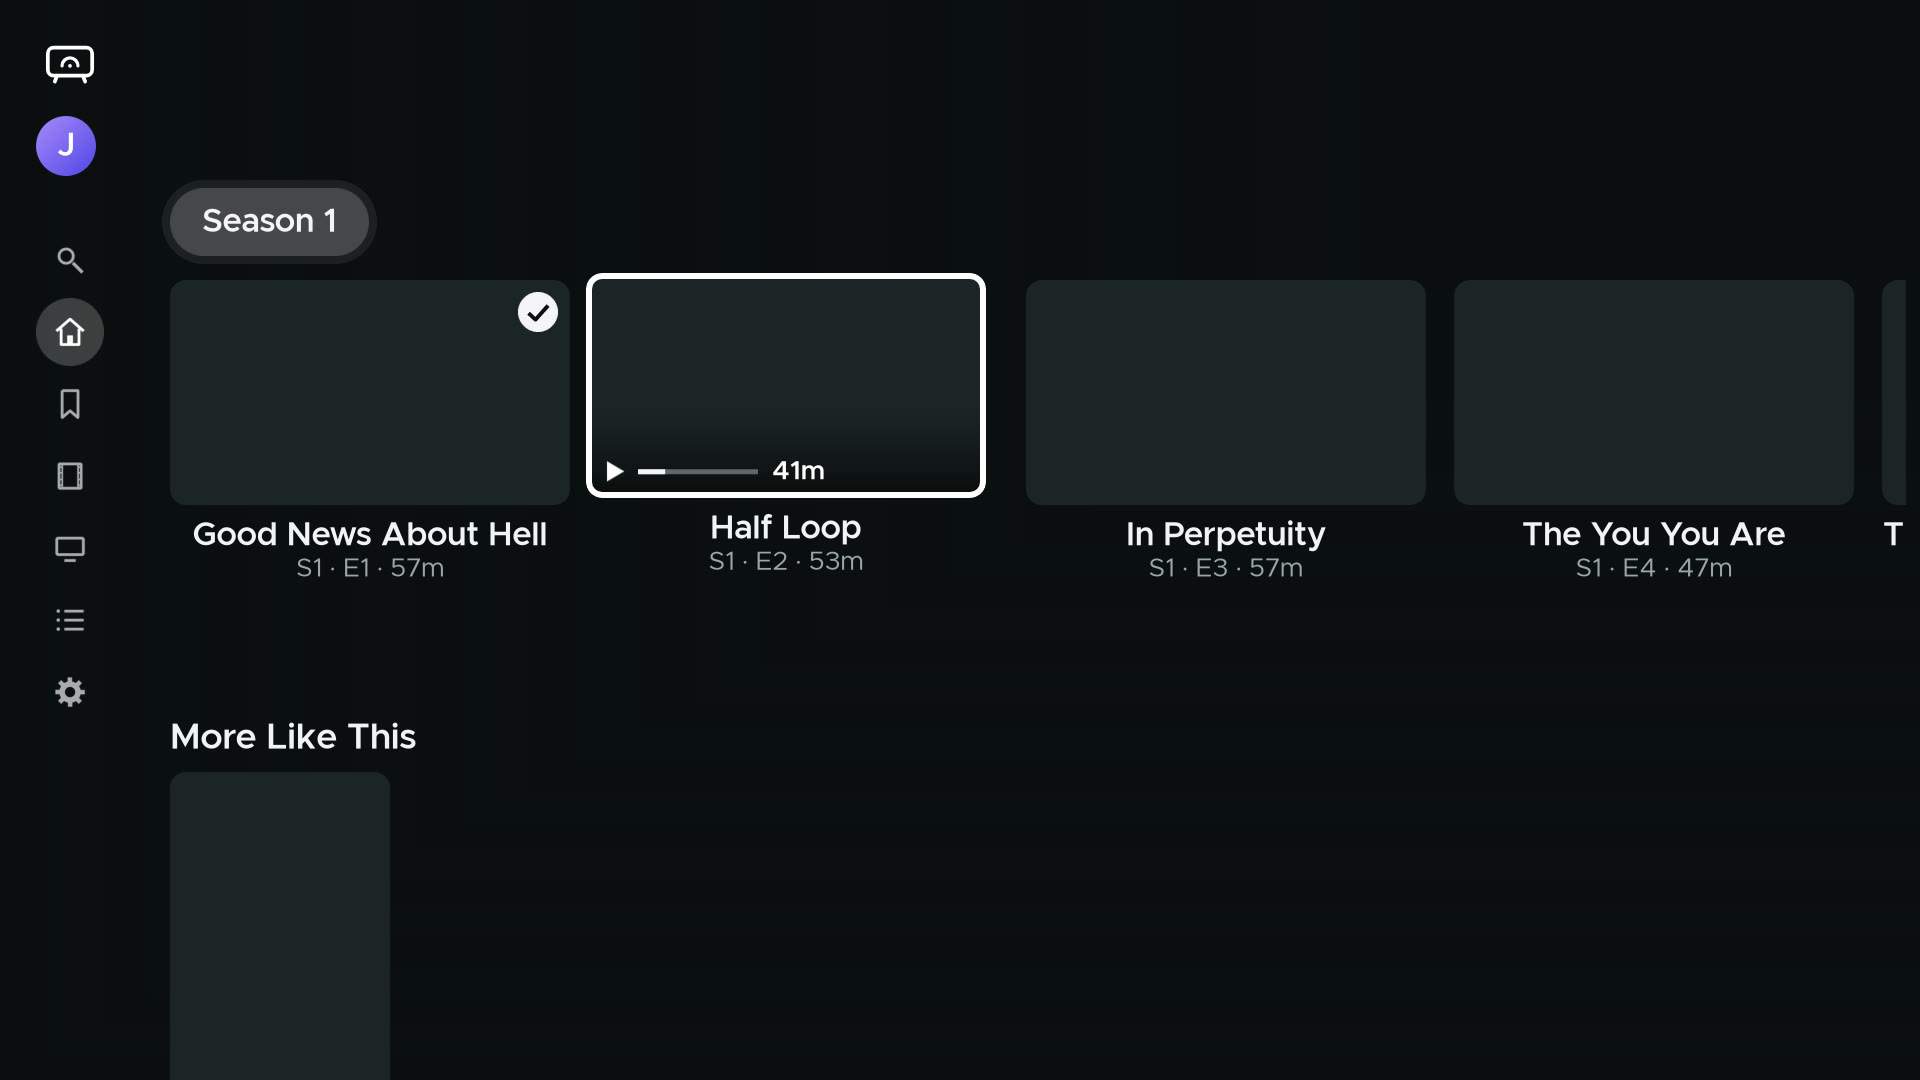
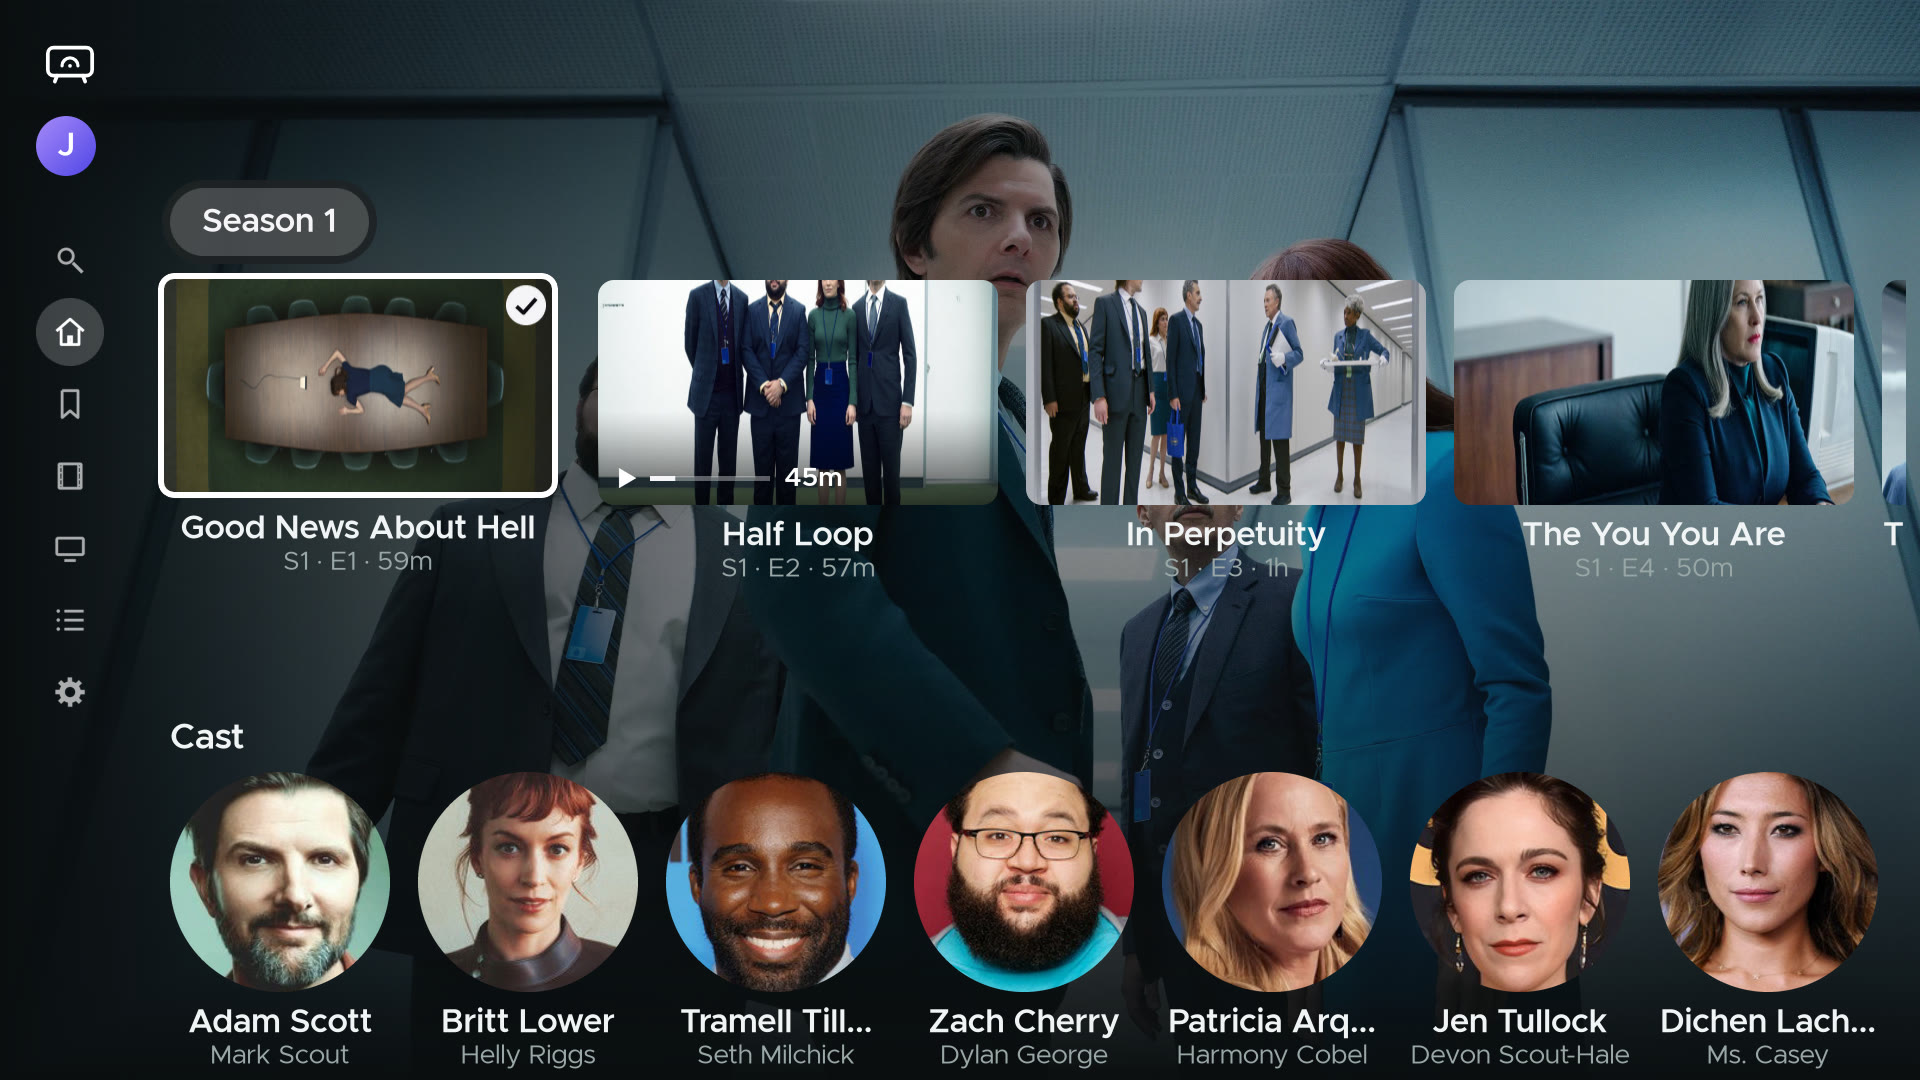
Refresh Roku captures with TMDB artwork
Use the shared scratch library with TMDB artwork for Home, titles, libraries and the Dune Collection. Document the fixture option that supplies the episode stills.

diff --git a/README.md b/README.md
@@ -51,7 +51,7 @@ between Arc apps.
 
 <sub>Artwork and details from TMDB. Films and shows belong to their owners; Arc doesn't include any media.</sub>
 
-These captures are from the brs-engine simulator, where fonts may fall back and horizontal buttons may stack vertically. Posters and backdrops are blank because the capture environment blocked TMDB's image CDN.
+These captures are from the brs-engine simulator, where fonts may fall back and horizontal buttons may stack vertically.
 
 ## What it does
 
@@ -125,6 +125,8 @@ rendering on a real Roku.
 To retake the README pictures, start the
 [shared screenshot library](https://github.com/arc-media-server/arc-media-server/blob/main/docs/SCREENSHOTS.md)
 from the server repository's `web/` directory with `node tools/screenshots.mjs --serve`.
+The README uses `AMS_TVDB_API_KEY= node tools/screenshots.mjs --serve` so that episode stills
+come from TMDB too.
 On a machine with Python, `pexpect` and FFmpeg, run `python3 scripts/screenshots.py` here.
 Enter the scratch address (`127.0.0.1:18299` by default) and approve its code using
 `node tools/screenshots.mjs --approve <code>` from the server's `web/` directory. Follow the

diff --git a/docs/changes/2026-11-23-readme-screenshots.md b/docs/changes/2026-11-23-readme-screenshots.md
@@ -6,4 +6,4 @@
 - Checks: `npm run build`, `npm run check` and `npm test` passed. The first unit-test launch was blocked by sandbox network-interface enumeration and passed on retry outside that sandbox.
 - Logging: unchanged. The screenshot helper reports filenames.
 - [README screenshots](../screenshots/) are full-size 1920×1080 JPEGs. The guided helper also saved and converted a frame in a separate smoke check.
-- Limits: brs-engine simulator only. Real Roku rendering and playback were not checked. The shared screenshot server used replayed provider metadata because the environment had no TMDB key. Its image CDN was blocked, so artwork is blank in these captures.
+- Limits: brs-engine simulator only. Real Roku rendering and playback were not checked. The shared screenshot server used TMDB for metadata and artwork, including episode stills. The TVDB artwork host remained unavailable in the capture environment.
